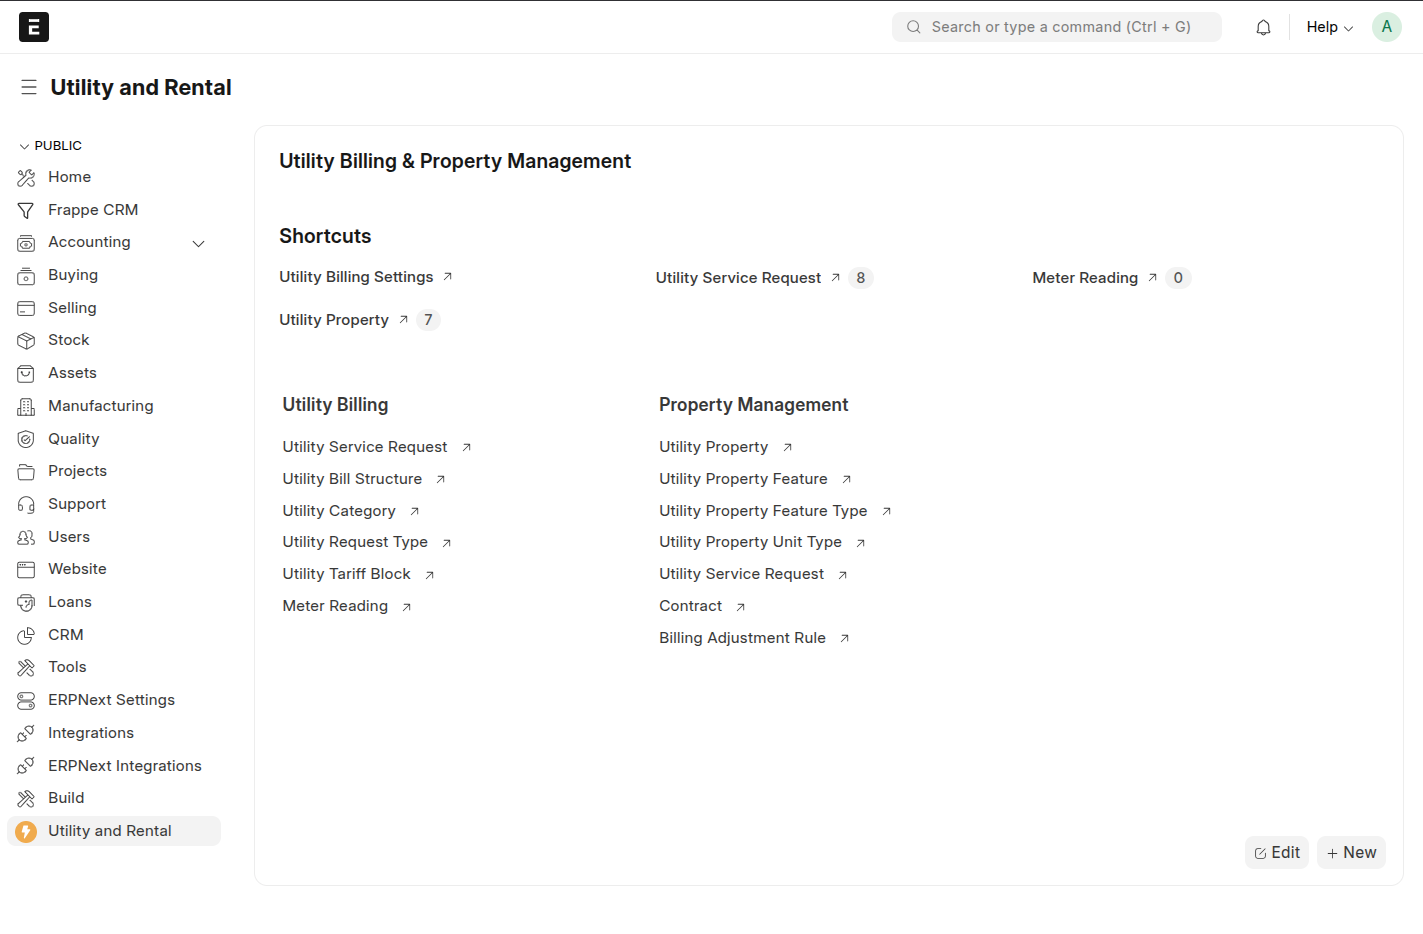
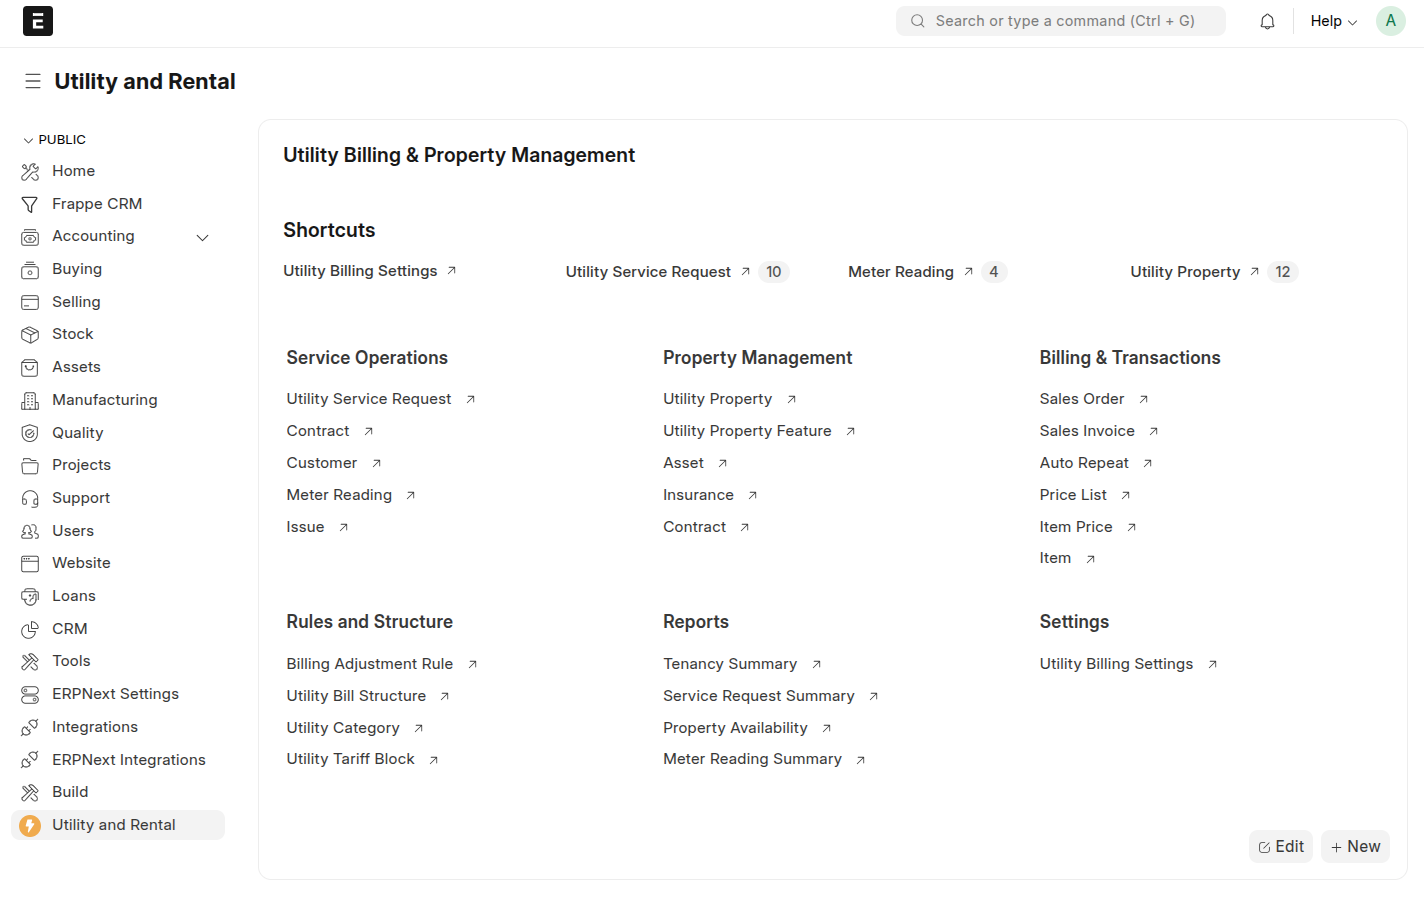
Adds reports section to README with key insights
Introduces a new "Reports" section in the README to highlight built-in reporting capabilities, including summaries for property availability, service requests, tenancy, and utility consumption. Enhances documentation clarity and accessibility for decision-making tools.

Updates an image file in the documentation to reflect changes.

diff --git a/utility_billing/docs/Reports.md b/utility_billing/docs/Reports.md
@@ -1,0 +1,31 @@
+## 📊 Reports
+
+### 🏢 Property Availability Report
+
+![Property Availability](./images/property-availability-report.png)  
+Track real-time property inventory with occupancy status, unit specifications (bedrooms, bathrooms, size), and total asset value across your portfolio. Visualize vacancy rates and property distribution.
+
+### 🛠 Service Request Summary
+
+![Service Requests](./images/service-request-report.png)  
+Monitor the complete lifecycle of service requests from initiation to billing. Analyze request types, completion statuses, and associated billing progress across different customer segments.
+
+### 📝 Tenancy Summary Report
+
+![Tenancy](./images/tenancy-report.png)  
+Manage lease contracts with visibility on active/expired agreements, remaining lease durations, and property assignments. Track contract adjustments and insurance coverage status.
+
+### 🔌 Meter Reading Summary
+
+![Meter Readings](./images/meter-reading-report.png)  
+Analyze utility consumption patterns with detailed meter reading comparisons. View consumption by item type, tariff block rates, and generated billing amounts for accurate utility cost tracking.
+
+## 🚀 Quick Navigation
+
+[![Home](https://img.shields.io/badge/Home-DEF4FF?style=for-the-badge&logo=github&logoColor=000)](https://github.com/navariltd/utility-billing)
+[![Full Documentation](https://img.shields.io/badge/Full_Documentation-6366F1?style=for-the-badge&logo=readthedocs&logoColor=fff)](https://github.com/navariltd/utility-billing/wiki)
+[![ERPNext Docs](https://img.shields.io/badge/ERPNext_Docs-FF6B6B?style=for-the-badge&logo=erpnext&logoColor=fff)](https://docs.erpnext.com)
+[![Frappe Framework](https://img.shields.io/badge/Frappe_Framework-00C49A?style=for-the-badge&logo=frappe&logoColor=fff)](https://frappeframework.com/docs)
+[![Community Forum](https://img.shields.io/badge/Community_Forum-F59E0B?style=for-the-badge&logo=discourse&logoColor=fff)](https://discuss.frappe.io)
+[![Report Issue](https://img.shields.io/badge/Report_Issue-E63946?style=for-the-badge&logo=githubissues&logoColor=fff)](https://github.com/navariltd/utility-billing/issues)
+[![Website](https://img.shields.io/badge/Website-1E293B?style=for-the-badge&logo=googlechrome&logoColor=fff)](https://navari.co.ke)

diff --git a/README.md b/README.md
@@ -83,6 +83,19 @@ Explore the doctypes that power the system. Below are categorized lists of **new
 - 📈 [Meter Reading](./utility_billing/docs/Meter-Reading.md)
 - 🪙 [Billing Adjustment Rule](./utility_billing/docs/Billing-Adjustment-Rule.md)
 
+## 📊 Reports
+
+Get actionable insights from your utility and property data with our built-in reports. These reports help you monitor availability, manage service requests, oversee tenancy details, and track utility consumption—empowering better decision-making across your operations.
+
+### Main Reports:
+
+- **🏢 Property Availability Report** – Track real-time inventory, occupancy, and asset value.
+- **🛠 Service Request Summary** – Monitor service request lifecycles and billing progress.
+- **📝 Tenancy Summary Report** – Manage leases, durations, and contract changes.
+- **🔌 Meter Reading Summary** – Analyze utility consumption, tariff blocks, and billing.
+
+## [![View Reports](https://img.shields.io/badge/%F0%9F%91%89%20Explore%20More-6f42c1?style=for-the-badge&logo=github)](./utility_billing/docs/Reports.md)
+
 ## 🛠 Installation (Self-Hosted)
 
 ```bash
